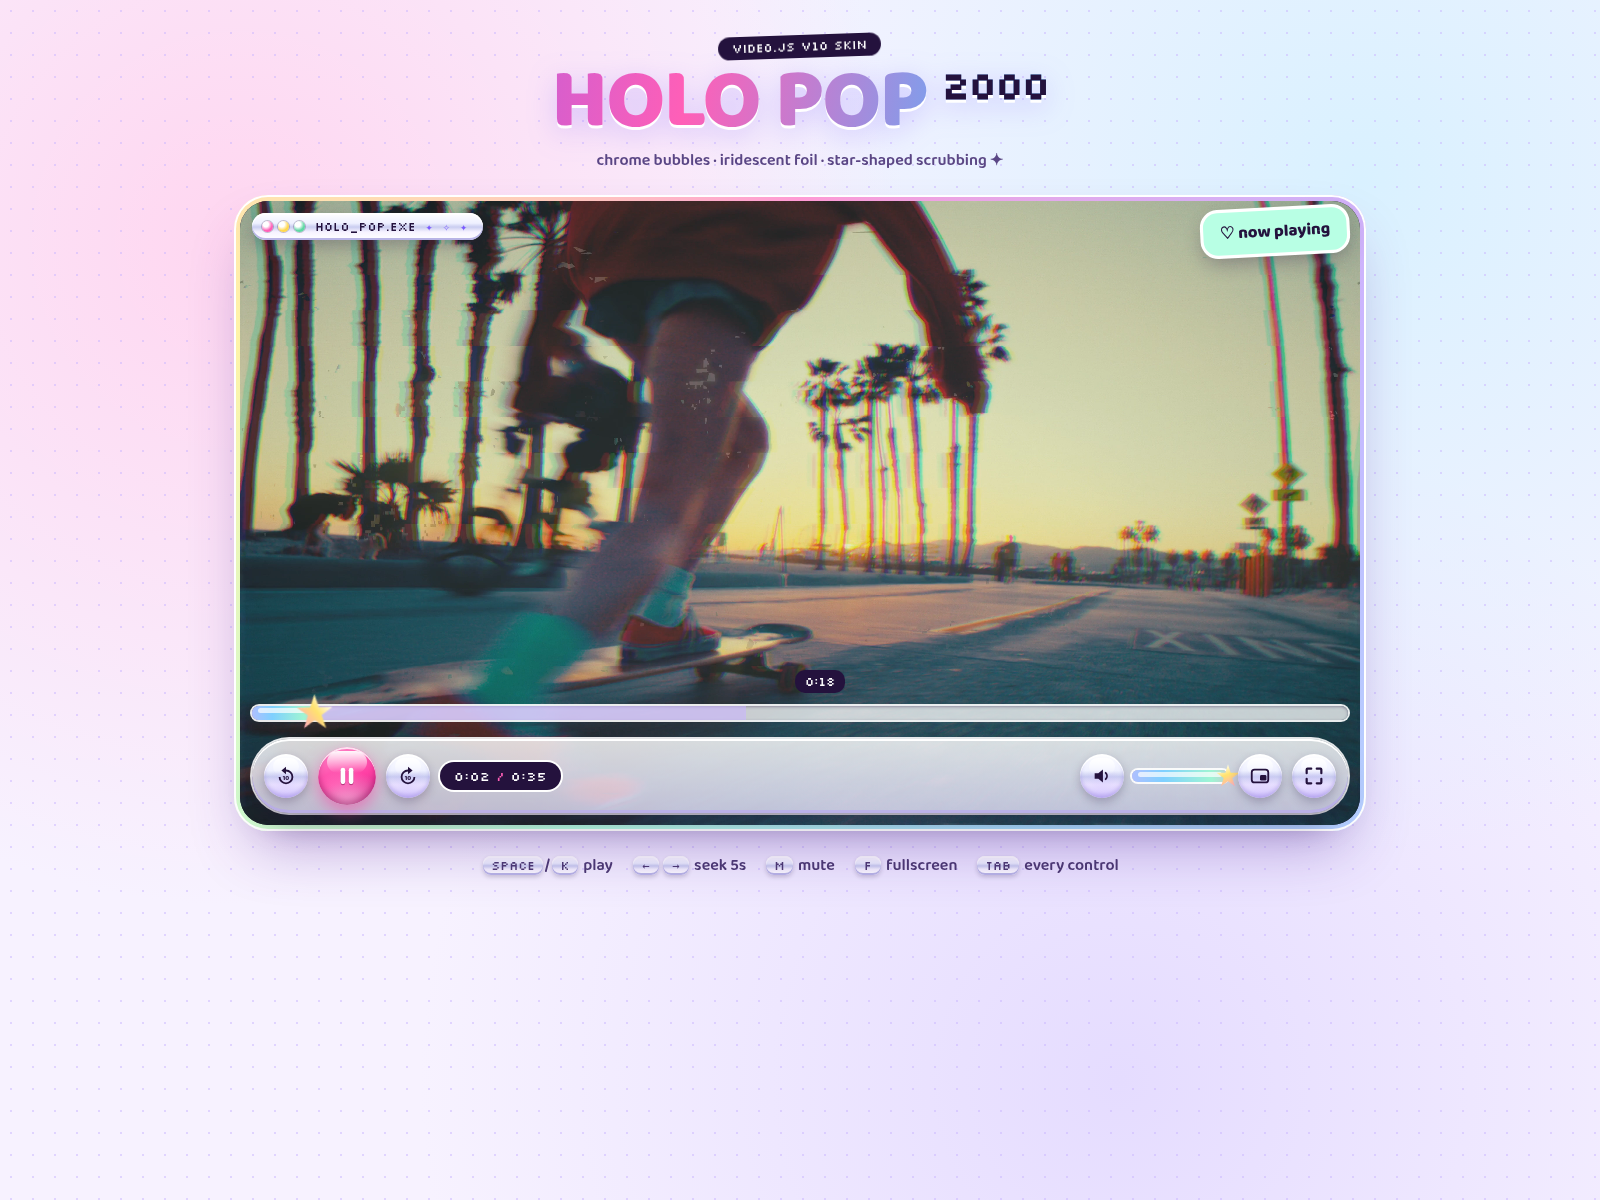
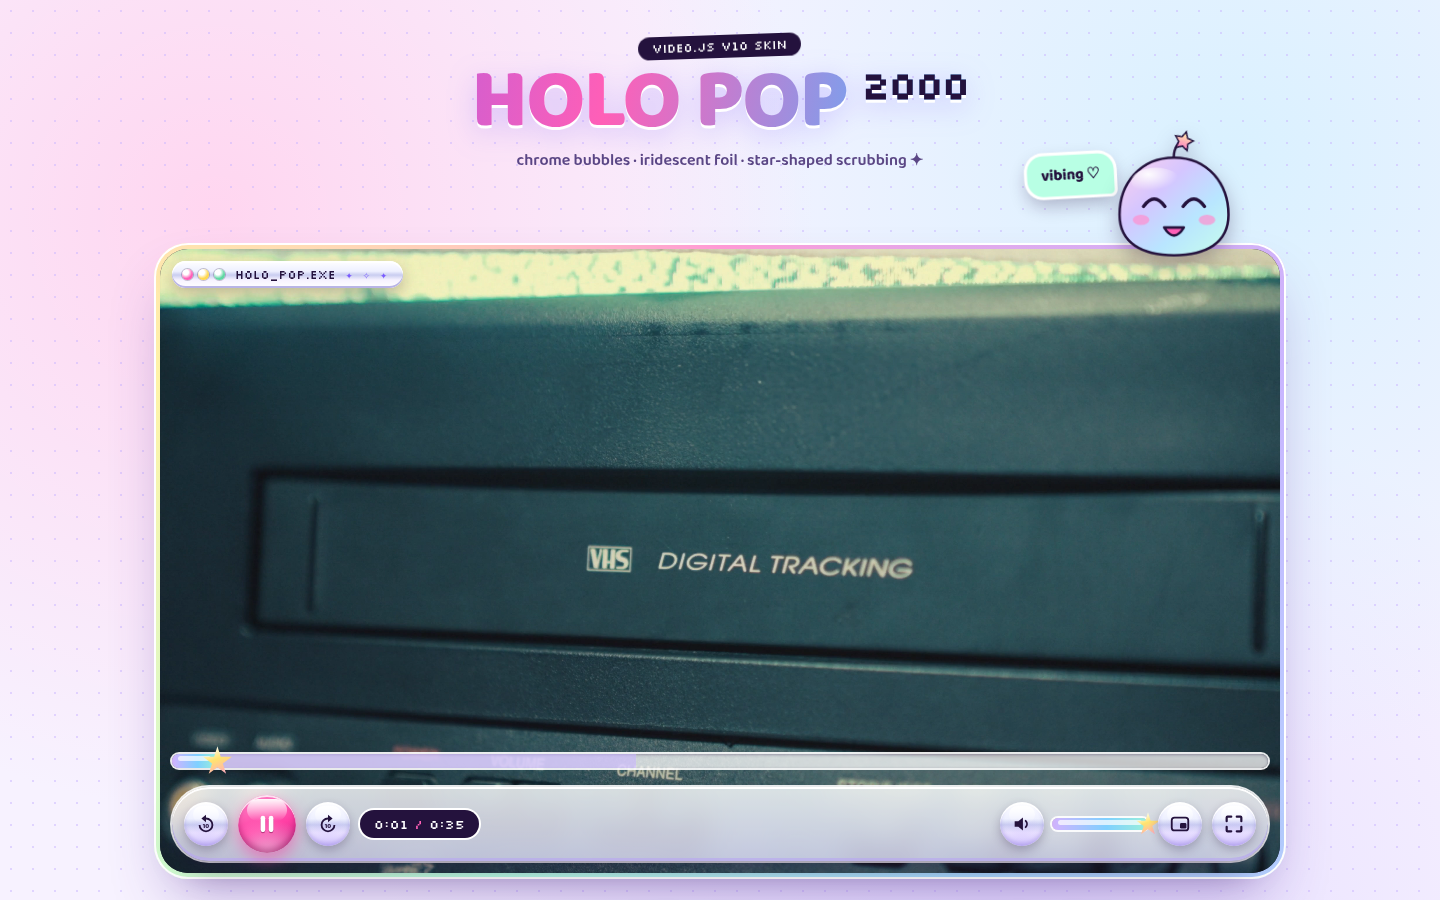
v2: Bloop the holo mascot (eye tracking + mood reactions), mobile two-row layout, mood card + feature stickers

diff --git a/index.html b/index.html
@@ -22,17 +22,60 @@
     <media-container class="holo">
       <video src="https://stream.mux.com/BV3YZtogl89mg9VcNBhhnHm02Y34zI1nlMuMQfAbl3dM/highest.mp4" playsinline crossorigin preload="auto"></video>
 
+
+      <!-- decorative interactive mascot "Bloop" (aria-hidden; all info is also in real controls/announcer) -->
+      <div class="bloop" aria-hidden="true" data-mood="idle">
+        <div class="bloop-bubble"><span class="b-idle">hi bestie ✦</span><span class="b-happy">vibing ♡</span><span class="b-sleepy">zzz… paused</span><span class="b-dizzy">wheee~ seeking</span><span class="b-shh">shh 🤫 muted</span><span class="b-excited">LOUDER!! ★</span><span class="b-wow">woah, big screen!</span></div>
+        <svg class="bloop-svg" viewBox="0 0 160 150">
+          <defs>
+            <linearGradient id="bl-holo" x1="0" y1="0" x2="1" y2="1">
+              <stop offset="0" stop-color="#ffd1ee"/><stop offset=".35" stop-color="#d5c6ff"/><stop offset=".65" stop-color="#b9e6ff"/><stop offset="1" stop-color="#c8ffeb"/>
+            </linearGradient>
+            <radialGradient id="bl-shine" cx=".35" cy=".25" r=".6"><stop offset="0" stop-color="#fff" stop-opacity=".95"/><stop offset="1" stop-color="#fff" stop-opacity="0"/></radialGradient>
+            <linearGradient id="bl-star" x1="0" y1="0" x2="0" y2="1"><stop offset="0" stop-color="#fff6a8"/><stop offset="1" stop-color="#ff7cc4"/></linearGradient>
+          </defs>
+          <g class="bl-body">
+            <path class="bl-antenna" d="M80 34 Q78 16 92 8" fill="none" stroke="#24123d" stroke-width="3" stroke-linecap="round"/>
+            <path class="bl-star" d="M92 0 l3.2 6.4 7 1-5 5 1.2 7-6.4-3.4-6.4 3.4 1.2-7-5-5 7-1z" fill="url(#bl-star)" stroke="#24123d" stroke-width="1.6"/>
+            <path d="M80 30 C122 30 146 62 146 98 C146 132 118 146 80 146 C42 146 14 132 14 98 C14 62 38 30 80 30Z" fill="url(#bl-holo)" stroke="#24123d" stroke-width="3"/>
+            <ellipse cx="58" cy="58" rx="30" ry="16" fill="url(#bl-shine)"/>
+            <ellipse class="bl-cheek" cx="40" cy="104" rx="10" ry="6" fill="#ff8fcf" opacity=".7"/>
+            <ellipse class="bl-cheek" cx="120" cy="104" rx="10" ry="6" fill="#ff8fcf" opacity=".7"/>
+            <!-- eyes -->
+            <g class="bl-eye" data-eye="l" transform="translate(56 84)">
+              <g class="e-open"><ellipse rx="17" ry="19" fill="#fff" stroke="#24123d" stroke-width="3"/>
+                <g class="bl-pupil"><circle r="9" fill="#24123d"/><circle cx="-3" cy="-4" r="3.2" fill="#fff"/><circle cx="3" cy="3" r="1.4" fill="#fff"/></g>
+                <rect class="bl-lid" x="-19" y="-21" width="38" height="0" fill="#d5c6ff" stroke="#24123d" stroke-width="3"/></g>
+              <path class="e-happy" d="M-13 4 Q0 -14 13 4" fill="none" stroke="#24123d" stroke-width="4" stroke-linecap="round"/>
+              <path class="e-dizzy" d="M0 0 m-2 0 a2 2 0 1 1 4 0 a5 5 0 1 1 -9 0 a8 8 0 1 1 15 0 a11 11 0 1 1 -21 0" fill="none" stroke="#24123d" stroke-width="2.6" stroke-linecap="round"/>
+              <path class="e-star" d="M0 -14 l4 9 10 1-7.5 7 2 10-8.5-5-8.5 5 2-10-7.5-7 10-1z" fill="url(#bl-star)" stroke="#24123d" stroke-width="2"/>
+            </g>
+            <g class="bl-eye" data-eye="r" transform="translate(104 84)">
+              <g class="e-open"><ellipse rx="17" ry="19" fill="#fff" stroke="#24123d" stroke-width="3"/>
+                <g class="bl-pupil"><circle r="9" fill="#24123d"/><circle cx="-3" cy="-4" r="3.2" fill="#fff"/><circle cx="3" cy="3" r="1.4" fill="#fff"/></g>
+                <rect class="bl-lid" x="-19" y="-21" width="38" height="0" fill="#d5c6ff" stroke="#24123d" stroke-width="3"/></g>
+              <path class="e-happy" d="M-13 4 Q0 -14 13 4" fill="none" stroke="#24123d" stroke-width="4" stroke-linecap="round"/>
+              <path class="e-dizzy" d="M0 0 m-2 0 a2 2 0 1 1 4 0 a5 5 0 1 1 -9 0 a8 8 0 1 1 15 0 a11 11 0 1 1 -21 0" fill="none" stroke="#24123d" stroke-width="2.6" stroke-linecap="round"/>
+              <path class="e-star" d="M0 -14 l4 9 10 1-7.5 7 2 10-8.5-5-8.5 5 2-10-7.5-7 10-1z" fill="url(#bl-star)" stroke="#24123d" stroke-width="2"/>
+            </g>
+            <!-- mouths -->
+            <path class="m m-idle" d="M72 116 Q80 123 88 116" fill="none" stroke="#24123d" stroke-width="3.4" stroke-linecap="round"/>
+            <path class="m m-happy" d="M68 113 Q80 132 92 113 Z" fill="#ff5fb7" stroke="#24123d" stroke-width="3" stroke-linejoin="round"/>
+            <ellipse class="m m-wow" cx="80" cy="120" rx="7" ry="9" fill="#24123d"/>
+            <path class="m m-sleepy" d="M74 118 h12" stroke="#24123d" stroke-width="3.4" stroke-linecap="round"/>
+            <path class="m m-dizzy" d="M68 118 q4 -5 8 0 t8 0 t8 0" fill="none" stroke="#24123d" stroke-width="3" stroke-linecap="round"/>
+            <!-- hands over ears (mute) -->
+            <g class="bl-hands"><ellipse cx="16" cy="88" rx="13" ry="16" fill="url(#bl-holo)" stroke="#24123d" stroke-width="3"/><ellipse cx="144" cy="88" rx="13" ry="16" fill="url(#bl-holo)" stroke="#24123d" stroke-width="3"/></g>
+          </g>
+          <g class="bl-zzz" font-family="Silkscreen,monospace" fill="#7a5cff"><text x="128" y="40" font-size="16">z</text><text x="140" y="26" font-size="12">z</text><text x="150" y="14" font-size="9">z</text></g>
+        </svg>
+      </div>
+
       <!-- decorative Y2K window chrome -->
       <div class="holo-titlebar" aria-hidden="true">
         <span class="holo-dots"><i></i><i></i><i></i></span>
         <span class="holo-file">holo_pop.exe</span>
         <span class="holo-stars">✦ ✧ ✦</span>
-      </div>
-
-      <!-- sticker that reacts to state (status is also announced by media-status-announcer) -->
-      <div class="holo-sticker" aria-hidden="true">
-        <span class="when-playing">♡ now playing</span>
-        <span class="when-paused">✿ paused, bestie</span>
       </div>
 
       <div class="holo-sparkles" aria-hidden="true"></div>
@@ -111,6 +154,18 @@
       </media-error-dialog>
     </media-container>
   </video-player>
+
+
+  <section class="extras">
+    <div class="moodcard" aria-hidden="true">
+      <span class="mc-face">◕‿◕</span>
+      <div><p class="mc-label">Bloop's mood</p><p class="mc-text">hi bestie ✦ press play</p></div>
+    </div>
+    <ul class="features" aria-label="Skin features">
+      <li class="f1">✦ holo foil frame</li><li class="f2">★ star scrubber</li><li class="f3">♡ mascot that watches you</li>
+      <li class="f4">⌨ full keyboard</li><li class="f5">◎ big focus rings</li><li class="f6">☾ reduced-motion friendly</li>
+    </ul>
+  </section>
 
   <section class="keys" aria-label="Keyboard shortcuts">
     <span><kbd>Space</kbd>/<kbd>K</kbd> play</span>

diff --git a/holo-pop.css b/holo-pop.css
@@ -172,3 +172,99 @@ media-dialog-popup:not([data-open]){display:none}
 
 /* screen-reader-only status announcements */
 media-status-announcer{position:absolute !important;width:1px;height:1px;overflow:hidden;clip-path:inset(50%);white-space:nowrap}
+
+/* ================= v2: Bloop the holo mascot ================= */
+.holo-player{margin-top:70px}
+.bloop{position:absolute;right:46px;top:-104px;width:132px;z-index:5;pointer-events:none;
+  transform-origin:50% 100%;transition:transform .35s cubic-bezier(.3,1.7,.5,1)}
+.bloop-svg{display:block;width:100%;overflow:visible;filter:drop-shadow(0 8px 10px rgb(36 18 61 / .3))}
+.bl-pupil{transition:transform .12s ease-out}
+.bl-lid{transition:height .09s ease-in}
+.bloop.blink .bl-lid{height:42px}
+.bl-star{transform-origin:92px 10px;animation:twinkle 2.4s ease-in-out infinite}
+@keyframes twinkle{50%{transform:rotate(25deg) scale(1.15)}}
+.bl-antenna{transform-origin:80px 34px;animation:wobble 3s ease-in-out infinite}
+@keyframes wobble{50%{transform:rotate(-8deg)}}
+
+/* default visibility */
+.e-happy,.e-dizzy,.e-star,.m,.bl-hands,.bl-zzz{display:none}
+.bloop[data-mood="idle"] .m-idle{display:block}
+.bloop[data-mood="happy"] .e-open{display:none}
+.bloop[data-mood="happy"] .e-happy,.bloop[data-mood="happy"] .m-happy{display:block}
+.bloop[data-mood="happy"]{animation:bounce .9s ease-in-out infinite}
+@keyframes bounce{0%,100%{transform:translateY(0) scaleY(1)}40%{transform:translateY(-8px) scaleY(1.04)}60%{transform:translateY(0) scaleY(.94) scaleX(1.05)}}
+.bloop[data-mood="sleepy"] .bl-lid{height:22px}
+.bloop[data-mood="sleepy"] .m-sleepy,.bloop[data-mood="sleepy"] .bl-zzz{display:block}
+.bloop[data-mood="sleepy"] .bl-zzz text{animation:zz 2s ease-in-out infinite}
+.bloop[data-mood="sleepy"] .bl-zzz text:nth-child(2){animation-delay:.3s}.bloop[data-mood="sleepy"] .bl-zzz text:nth-child(3){animation-delay:.6s}
+@keyframes zz{0%{opacity:0;transform:translateY(6px)}50%{opacity:1}100%{opacity:0;transform:translateY(-6px)}}
+.bloop[data-mood="dizzy"] .e-open{display:none}
+.bloop[data-mood="dizzy"] .e-dizzy,.bloop[data-mood="dizzy"] .m-dizzy{display:block}
+.bloop[data-mood="dizzy"] .e-dizzy{animation:spinE .8s linear infinite;transform-box:fill-box;transform-origin:center}
+@keyframes spinE{to{transform:rotate(360deg)}}
+.bloop[data-mood="dizzy"]{transform:rotate(-6deg)}
+.bloop[data-mood="shh"] .bl-hands,.bloop[data-mood="shh"] .m-sleepy{display:block}
+.bloop[data-mood="shh"] .bl-lid{height:12px}
+.bloop[data-mood="excited"] .e-open{display:none}
+.bloop[data-mood="excited"] .e-star,.bloop[data-mood="excited"] .m-happy{display:block}
+.bloop[data-mood="excited"]{transform:translateY(-10px) scale(1.08)}
+.bloop[data-mood="wow"] .m-wow{display:block}
+.bloop[data-mood="wow"]{transform:scale(1.12)}
+.bloop[data-mood="wow"] .bl-eye ellipse{transform:scale(1.1)}
+
+/* speech bubble (replaces v1 sticker) */
+.holo-sticker{display:none}
+.bloop-bubble{position:absolute;right:100%;top:22px;margin-right:-6px;white-space:nowrap;padding:8px 14px;border-radius:16px 16px 4px 16px;
+  font-weight:800;font-size:15px;color:var(--ink);background:var(--butter);box-shadow:0 0 0 3px #fff,0 8px 18px rgb(36 18 61 / .3);transform:rotate(-3deg)}
+.bloop-bubble span{display:none}
+.bloop[data-mood="idle"] .b-idle,.bloop[data-mood="happy"] .b-happy,.bloop[data-mood="sleepy"] .b-sleepy,.bloop[data-mood="dizzy"] .b-dizzy,
+.bloop[data-mood="shh"] .b-shh,.bloop[data-mood="excited"] .b-excited,.bloop[data-mood="wow"] .b-wow{display:inline}
+.bloop[data-mood="happy"] .bloop-bubble{background:var(--mint)}
+.bloop[data-mood="excited"] .bloop-bubble{background:#ffc2e6}
+.bloop[data-mood="dizzy"] .bloop-bubble{background:#d9f1ff}
+.holo:fullscreen .bloop{top:16px;right:24px;width:110px}
+
+/* extras: mood card + feature stickers */
+.extras{display:flex;flex-wrap:wrap;gap:16px;align-items:center;justify-content:center;margin-top:26px}
+.moodcard{display:flex;gap:12px;align-items:center;padding:12px 18px;border-radius:22px;background:var(--chrome);
+  box-shadow:0 2px 0 #fff inset,0 -3px 0 #c9c3ee inset,0 10px 24px -10px rgb(36 18 61 / .4)}
+.mc-face{display:grid;place-items:center;width:48px;height:48px;border-radius:50%;background:var(--holo);font-weight:800}
+.mc-label{margin:0;font:11px var(--font-px);color:#6b55a0}.mc-text{margin:0;font-weight:800;font-size:17px}
+.features{display:flex;flex-wrap:wrap;gap:10px;justify-content:center;list-style:none;margin:0;padding:0;max-width:640px}
+.features li{padding:6px 14px;border-radius:999px;font-weight:700;font-size:14px;box-shadow:0 0 0 2px #fff,0 4px 10px rgb(36 18 61 / .18)}
+.f1{background:#ffd6f0;transform:rotate(-2deg)}.f2{background:#fff3a8;transform:rotate(1.5deg)}.f3{background:#c8ffeb;transform:rotate(-1deg)}
+.f4{background:#d9f1ff;transform:rotate(2deg)}.f5{background:#e5dcff;transform:rotate(-1.5deg)}.f6{background:#ffe0c7;transform:rotate(1deg)}
+
+/* ================= mobile ================= */
+@container (max-width:620px){
+  .holo-seek,.holo-pip,.holo-volume{display:grid}
+  .holo-volume{display:flex}
+}
+@media (max-width:700px){
+  .stage{padding:18px 10px 28px}
+  .stage-head{margin-bottom:8px}
+  h1{font-size:46px}
+  .sub{font-size:13px}
+  .holo-player{margin-top:92px}
+  .holo{aspect-ratio:auto;border-radius:28px;padding:5px;display:flex;flex-direction:column}
+  .holo video{aspect-ratio:4/3;height:auto;border-radius:23px 23px 10px 10px}
+  .holo-titlebar{top:14px;left:14px;font-size:10px}
+  .holo-stars{display:none}
+  .bloop{right:14px;top:-112px;width:118px}
+  .bloop-bubble{font-size:13px;top:16px}
+  /* controls move under the video, always visible, two rows */
+  .holo-controls{position:static;inset:auto;padding:12px 8px 10px;background:linear-gradient(180deg,#fbf8ff,#efe8ff);border-radius:10px 10px 23px 23px;opacity:1 !important;transform:none !important}
+  .holo-dock{flex-wrap:wrap;justify-content:space-between;gap:10px 8px;padding:10px;border-radius:24px}
+  .holo-spacer{flex-basis:100%;height:0}
+  .holo-btn{width:48px;height:48px}
+  .holo-play{width:64px;height:64px}
+  .holo-seek,.holo-pip{display:grid}
+  .holo-vol{flex:1}.holo-volume{display:flex;flex:1;width:auto}
+  .holo-timechip{font-size:12px;padding:8px 12px}
+  .holo-sparkles{border-radius:28px}
+  .extras{margin-top:18px}
+  .moodcard{width:100%}
+  .keys{font-size:14px}
+}
+@media (prefers-reduced-motion: reduce){ .bloop{transform:none !important} .bl-pupil{transition:none} }
+@media (min-width:701px){ .stage{max-width:1040px} .bloop{width:150px;top:-122px} .holo-player{margin-top:84px} }

diff --git a/holo-pop.js b/holo-pop.js
@@ -30,3 +30,87 @@ if (root && video) {
   });
   sync();
 }
+
+// ================= v2: Bloop the mascot =================
+const bloop = root?.querySelector('.bloop');
+const moodText = document.querySelector('.mc-text');
+const moodFace = document.querySelector('.mc-face');
+const pupils = bloop ? [...bloop.querySelectorAll('.bl-eye')].map((eye) => ({ eye, pupil: eye.querySelector('.bl-pupil') })) : [];
+const faces = { idle: '◕‿◕', happy: '^‿^', sleepy: '–‿–', dizzy: '@_@', shh: '>_<', excited: '★o★', wow: 'O_O' };
+const texts = { idle: 'hi bestie ✦ press play', happy: 'vibing ♡ enjoy the show', sleepy: 'zzz… paused, take a break', dizzy: 'wheee~ seeking around', shh: 'shh 🤫 sound is off', excited: 'LOUDER!! ★ volume up', wow: 'woah, big screen mode!' };
+
+let target = null;       // {x,y} in client coords
+let hoverEl = null;
+let lastInput = 0;
+let transient = null, transientTimer = 0;
+let seeking = false, lastVol = video?.volume ?? 1;
+
+function baseMood() {
+  if (seeking) return 'dizzy';
+  if (video.muted || video.volume === 0) return 'shh';
+  if (!video.paused && !video.ended) return 'happy';
+  if (video.currentTime > 0) return 'sleepy';
+  return 'idle';
+}
+function setMood() {
+  const m = seeking ? 'dizzy' : (transient || baseMood());
+  if (bloop.dataset.mood !== m) {
+    bloop.dataset.mood = m;
+    if (moodText) moodText.textContent = texts[m];
+    if (moodFace) moodFace.textContent = faces[m];
+  }
+}
+function flash(m, ms) { transient = m; clearTimeout(transientTimer); transientTimer = setTimeout(() => { transient = null; setMood(); }, ms); setMood(); }
+
+function look() {
+  let t = target;
+  if (hoverEl) { const r = hoverEl.getBoundingClientRect(); t = { x: r.left + r.width / 2, y: r.top + r.height / 2 }; }
+  const max = reduce.matches ? 4 : 7;
+  for (const { eye, pupil } of pupils) {
+    if (!t) { pupil.setAttribute('transform', ''); continue; }
+    const r = eye.getBoundingClientRect();
+    const cx = r.left + r.width / 2, cy = r.top + r.height / 2;
+    const dx = t.x - cx, dy = t.y - cy;
+    const ang = Math.atan2(dy, dx);
+    const dist = Math.min(max, Math.hypot(dx, dy) / 18);
+    pupil.setAttribute('transform', `translate(${(Math.cos(ang) * dist).toFixed(2)} ${(Math.sin(ang) * dist).toFixed(2)})`);
+  }
+}
+let raf = 0;
+function queue() { if (!raf) raf = requestAnimationFrame(() => { raf = 0; look(); }); }
+function onPoint(x, y) { target = { x, y }; lastInput = performance.now(); queue(); }
+
+if (bloop && video) {
+  addEventListener('pointermove', (e) => onPoint(e.clientX, e.clientY), { passive: true });
+  addEventListener('pointerdown', (e) => onPoint(e.clientX, e.clientY), { passive: true });
+  addEventListener('touchmove', (e) => { const t = e.touches[0]; if (t) onPoint(t.clientX, t.clientY); }, { passive: true });
+  addEventListener('scroll', queue, { passive: true });
+  addEventListener('resize', queue);
+  const interactive = '.holo-btn, .holo-time, .holo-volume';
+  root.addEventListener('pointerover', (e) => { const el = e.target.closest?.(interactive); if (el) { hoverEl = el; queue(); } });
+  root.addEventListener('pointerout', (e) => { if (e.target.closest?.(interactive) && !e.relatedTarget?.closest?.(interactive)) { hoverEl = null; queue(); } });
+  root.addEventListener('focusin', (e) => { const el = e.target.closest?.(interactive); if (el) { hoverEl = el; lastInput = performance.now(); queue(); } });
+  root.addEventListener('focusout', () => { hoverEl = null; queue(); });
+
+  // idle wander
+  setInterval(() => {
+    if (performance.now() - lastInput < 2500 || hoverEl) return;
+    const r = root.getBoundingClientRect();
+    target = { x: r.left + Math.random() * r.width, y: r.top + Math.random() * r.height };
+    queue();
+  }, 1600);
+  // blink
+  (function blink() {
+    setTimeout(() => { bloop.classList.add('blink'); setTimeout(() => { bloop.classList.remove('blink'); blink(); }, 130); }, 2200 + Math.random() * 3000);
+  })();
+
+  ['play', 'playing', 'pause', 'ended', 'loadedmetadata'].forEach((e) => video.addEventListener(e, setMood));
+  video.addEventListener('seeking', () => { seeking = true; setMood(); });
+  video.addEventListener('seeked', () => { setTimeout(() => { seeking = false; setMood(); }, 700); });
+  video.addEventListener('volumechange', () => {
+    if (!video.muted && video.volume > lastVol + 0.01) flash('excited', 1400);
+    lastVol = video.volume; setMood();
+  });
+  document.addEventListener('fullscreenchange', () => { if (document.fullscreenElement) flash('wow', 2200); else setMood(); queue(); });
+  setMood();
+}
